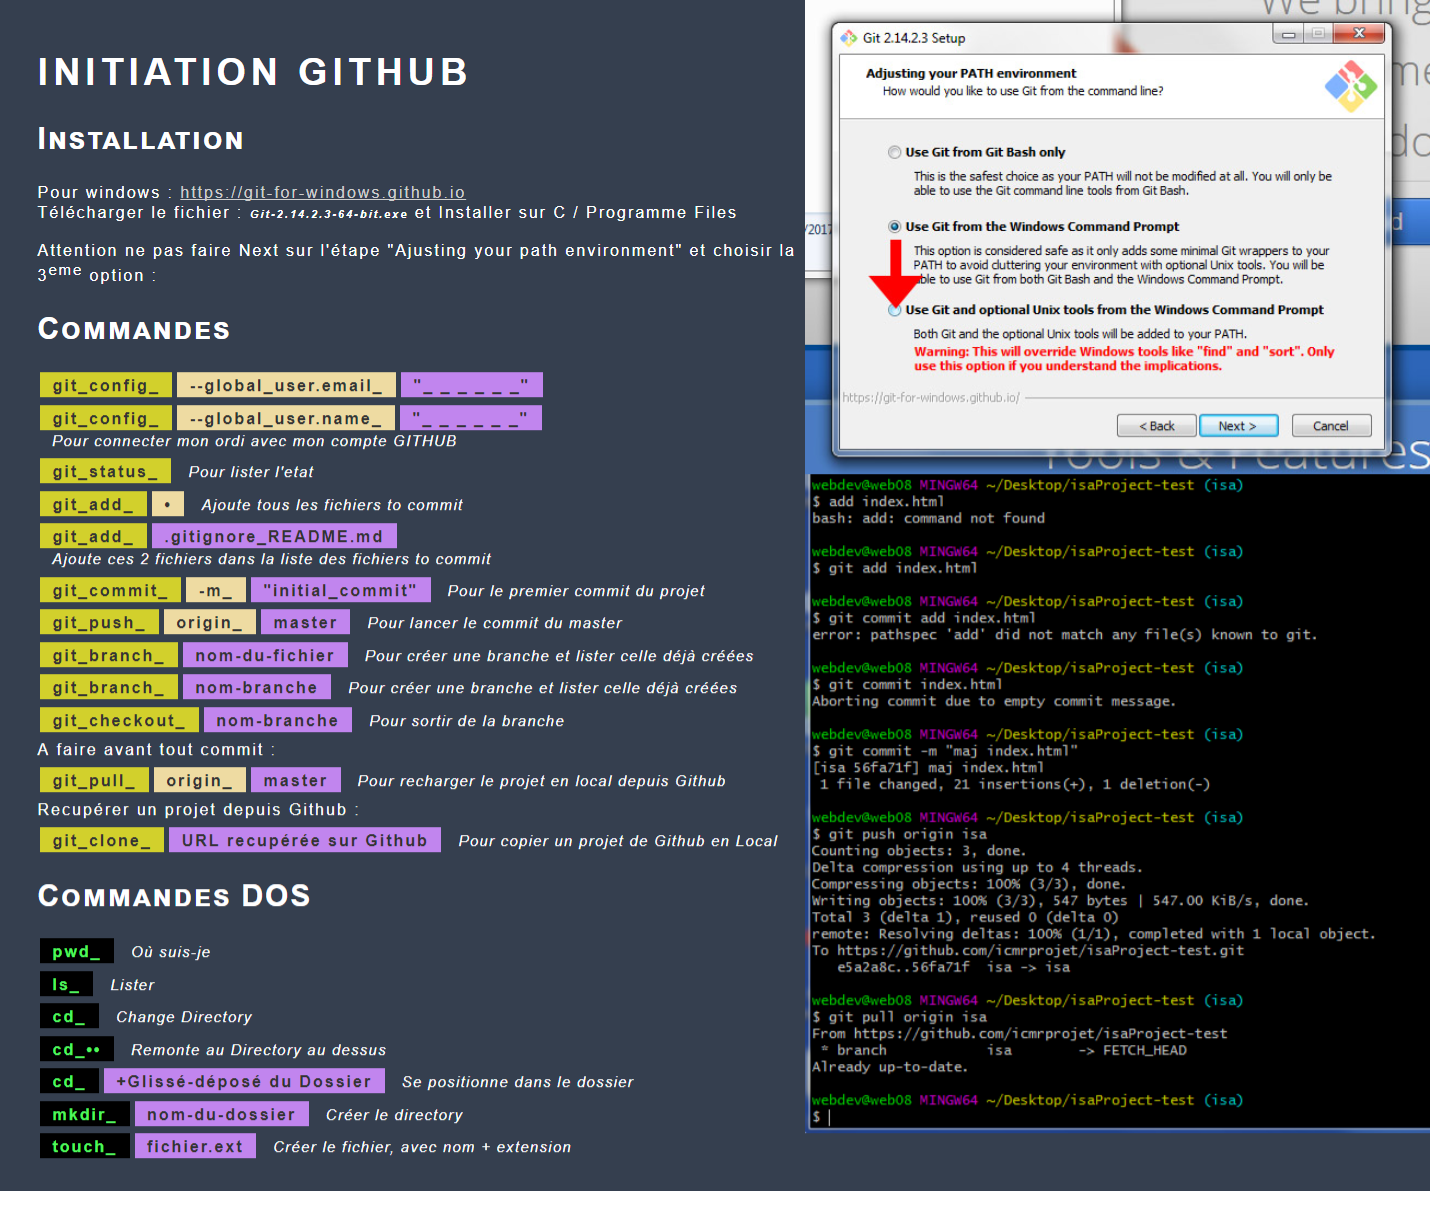
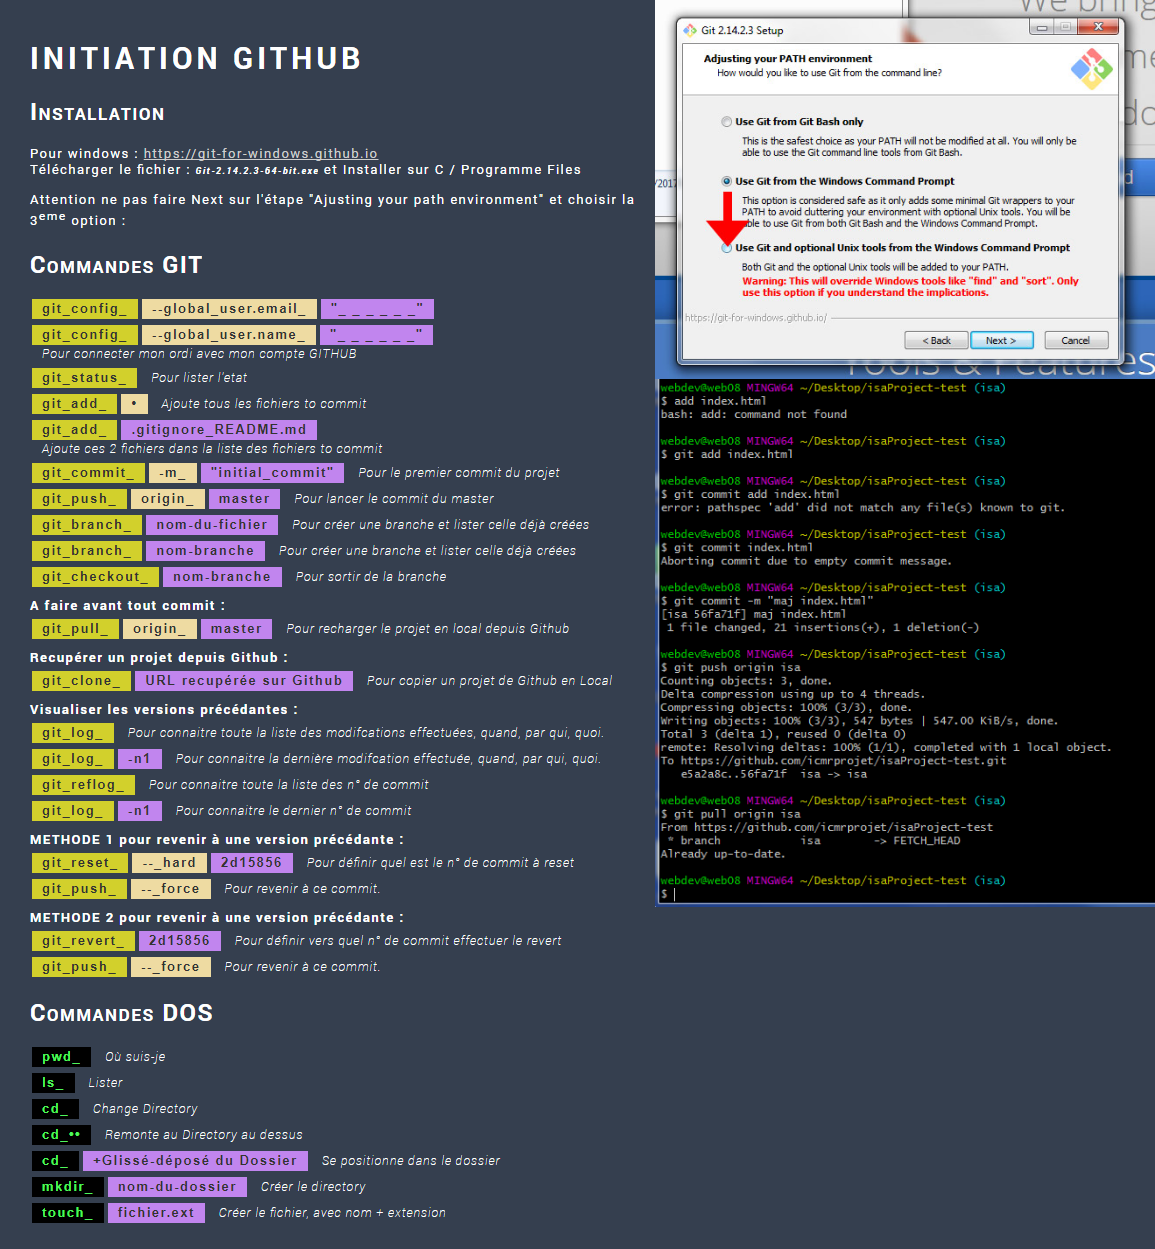
readme v5

diff --git a/index.html b/index.html
@@ -2,9 +2,12 @@
 <html>
 	<head>
 		<!-- Paramètrage / options du site -->
-		<meta charset="utf-8">
+		<meta charset="UTF-8">
+		<link rel="canonical" href="http://www.unepage.fr" />
+		<meta name="robots" content="index, follow"><!-- google voit moi et suit moi sinon no-index, no-follow -->
 		<title>Commande GITHUB</title>
 		<link rel="stylesheet" href="css/style.css" type="text/css">
+		<meta name="description" content="description de la page">
 		<link href="https://fonts.googleapis.com/css?family=Roboto:200" rel="stylesheet">
 	</head>
 	<body>
@@ -18,7 +21,7 @@
 				<p>Attention ne pas faire Next sur l'étape "Ajusting your path environment" et choisir la 3<sup>eme</sup> option :</p>
 			</div>
 			<div id="cmd">
-				<h2>Commandes</h2>
+				<h2>Commandes GIT</h2>
 				<p>
 					<span class="n"><a>git_config_</a></span><span class="p"><a>--global_user.email_</a></span><span class="d"><a>"_ _ _ _ _ _"</a></span>
 				</p>
@@ -49,13 +52,40 @@
 				<p>
 					<span class="n"><a>git_checkout_</a></span><span class="d"><a>nom-branche</a></span><span class="t"><a>Pour sortir de la branche</a></span>
 				</p>
-				<p>A faire avant tout commit :</p>
+				<h3>A faire avant tout commit :</h3>
 				<p>
 					<span class="n"><a>git_pull_</a></span><span class="p"><a>origin_</a></span><span class="d"><a>master</a></span><span class="t"><a>Pour recharger le projet en local depuis Github</a></span>
 				</p>
-				<p>Recupérer un projet depuis Github :</p>
+				<h3>Recupérer un projet depuis Github :</h3>
 				<p>
 					<span class="n"><a>git_clone_</a></span><span class="d"><a>URL recupérée sur Github</a></span><span class="t"><a>Pour copier un projet de Github en Local</a></span>
+				</p>
+				<h3>Visualiser les versions précédantes :</h3>
+				<p>
+					<span class="n"><a>git_log_</a></span><span class="t"><a>Pour connaitre toute la liste des modifcations effectuées, quand, par qui, quoi.</a></span>
+				</p>
+				<p>
+					<span class="n"><a>git_log_</a></span><span class="d"><a>-n1</a></span><span class="t"><a>Pour connaitre la dernière modifcation effectuée, quand, par qui, quoi.</a></span>
+				</p>
+				<p>
+					<span class="n"><a>git_reflog_</a></span><span class="t"><a>Pour connaitre toute la liste des n° de commit</a></span>
+				</p>
+				<p>
+					<span class="n"><a>git_log_</a></span><span class="d"><a>-n1</a></span><span class="t"><a>Pour connaitre le dernier n° de commit</a></span>
+				</p>
+				<h3>METHODE 1 pour revenir à une version précédante :</h3>
+				<p>
+					<span class="n"><a>git_reset_</a></span><span class="p"><a>--_hard</a></span><span class="d"><a>2d15856 </a></span><span class="t"><a>Pour définir quel est le n° de commit à reset</a></span>
+				</p>
+				<p>
+					<span class="n"><a>git_push_</a></span><span class="p"><a>--_force</a></span><span class="t"><a>Pour revenir à ce commit.</a></span>
+				</p>
+				<h3>METHODE 2 pour revenir à une version précédante :</h3>
+				<p>
+					<span class="n"><a>git_revert_</a></span><span class="d"><a>2d15856 </a></span><span class="t"><a>Pour définir vers quel n° de commit effectuer le revert</a></span>
+				</p>
+				<p>
+					<span class="n"><a>git_push_</a></span><span class="p"><a>--_force</a></span><span class="t"><a>Pour revenir à ce commit.</a></span>
 				</p>
 				<h2>Commandes DOS</h2>
 				<p><span class="dos"><a>pwd_</a></span><span class="t"><a>Où suis-je</a></span></p>

diff --git a/css/style.css b/css/style.css
@@ -13,8 +13,7 @@ body{
 a{color:#cecece;}
 h1{color:#ffffff;font-size:30px;line-height: 36px;font-variant: small-caps;letter-spacing:3pt;}
 h2{color:#ffffff;font-size:24px;line-height: 30px;font-variant: small-caps;}
-h3{color:#ffffff;font-size:16px;line-height: 26px;}
-h4{color:#ffffff;font-size:13px;line-height: 20px;}
+h3{color:#ffffff;font-size:13px;line-height: 16px;margin:10px 0 0 0;}
 #container{
 	padding:20px;margin:0 10px;
 	font-size: 13px; line-height: 20px;color:#ffffff;

diff --git a/README.md b/README.md
@@ -1,5 +1,5 @@
 <img src="https://fayechartre6.000webhostapp.com/github/images/CommandeGITHUB.png" alt="doc" description="Installation GITHUB">
-Retrouver la page sur (https://material.google.com/style/color.html).
+Retrouver la page sur (https://fayechartre6.000webhostapp.com/github/).
 
 # Liste de Commandes pour GITHUB
 
